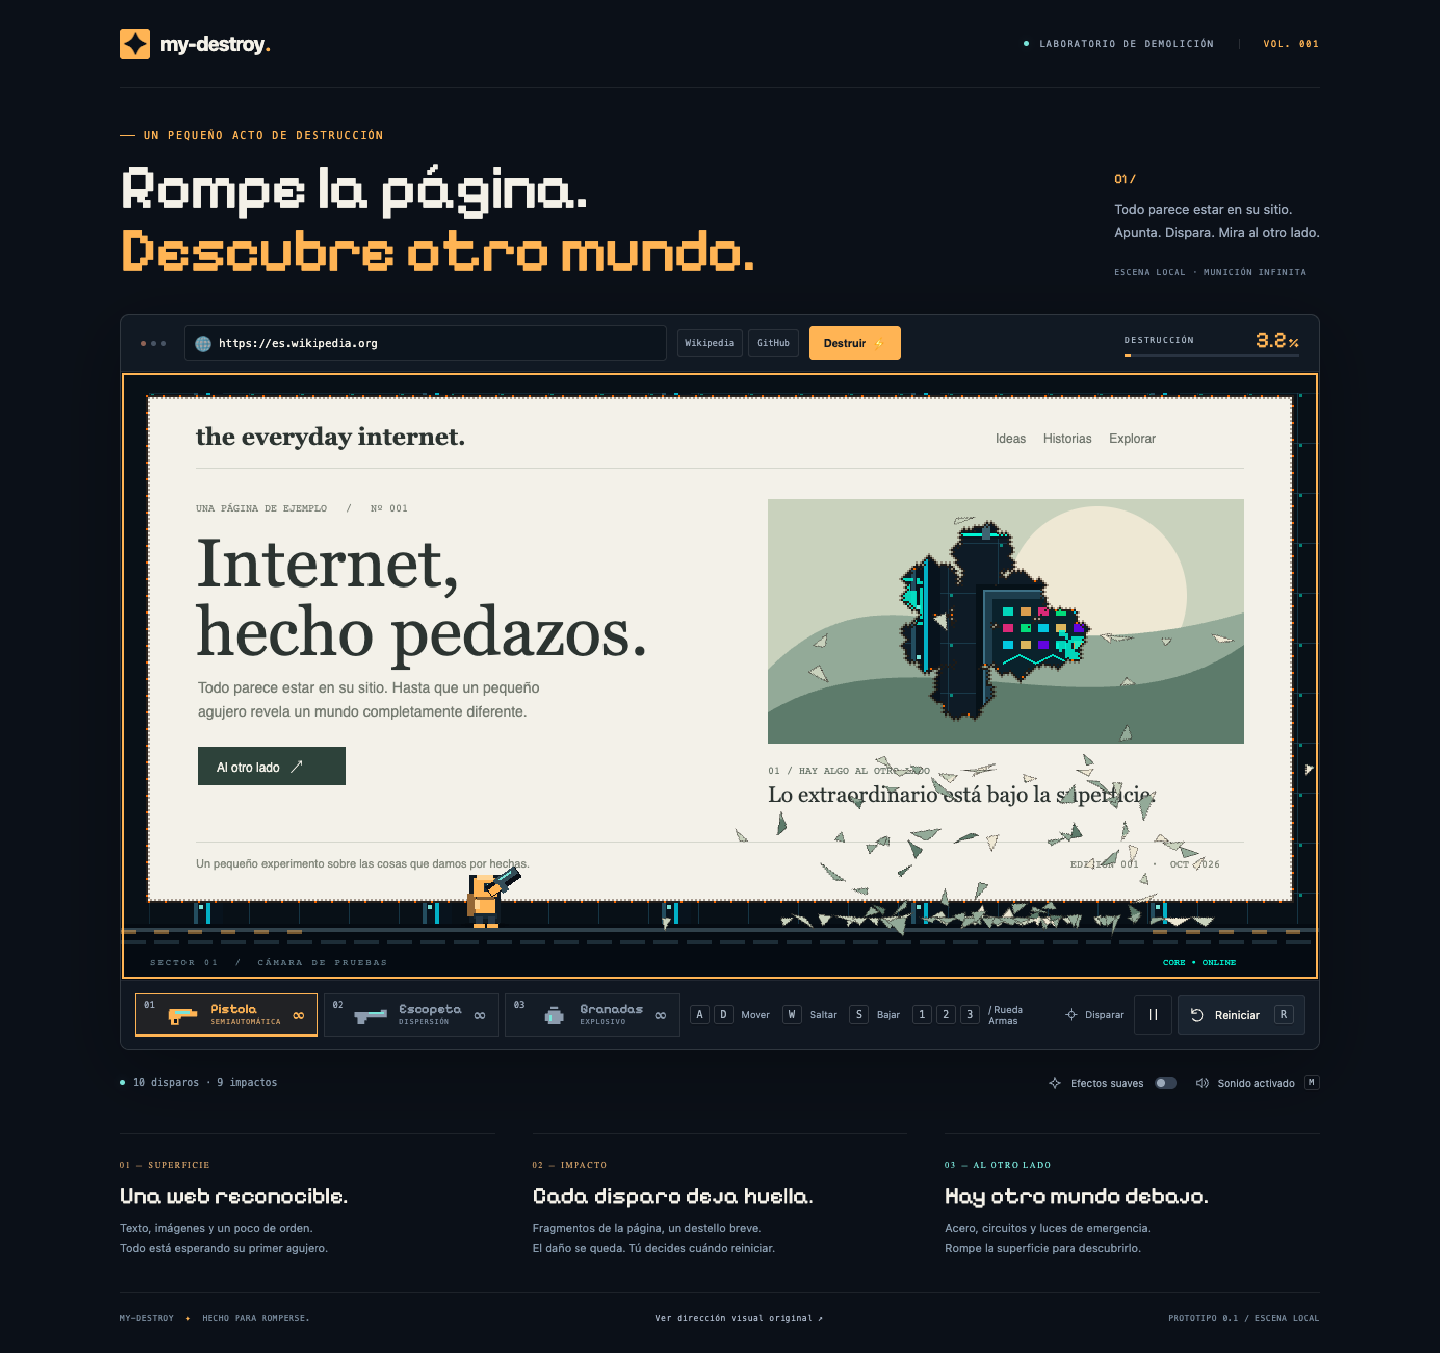
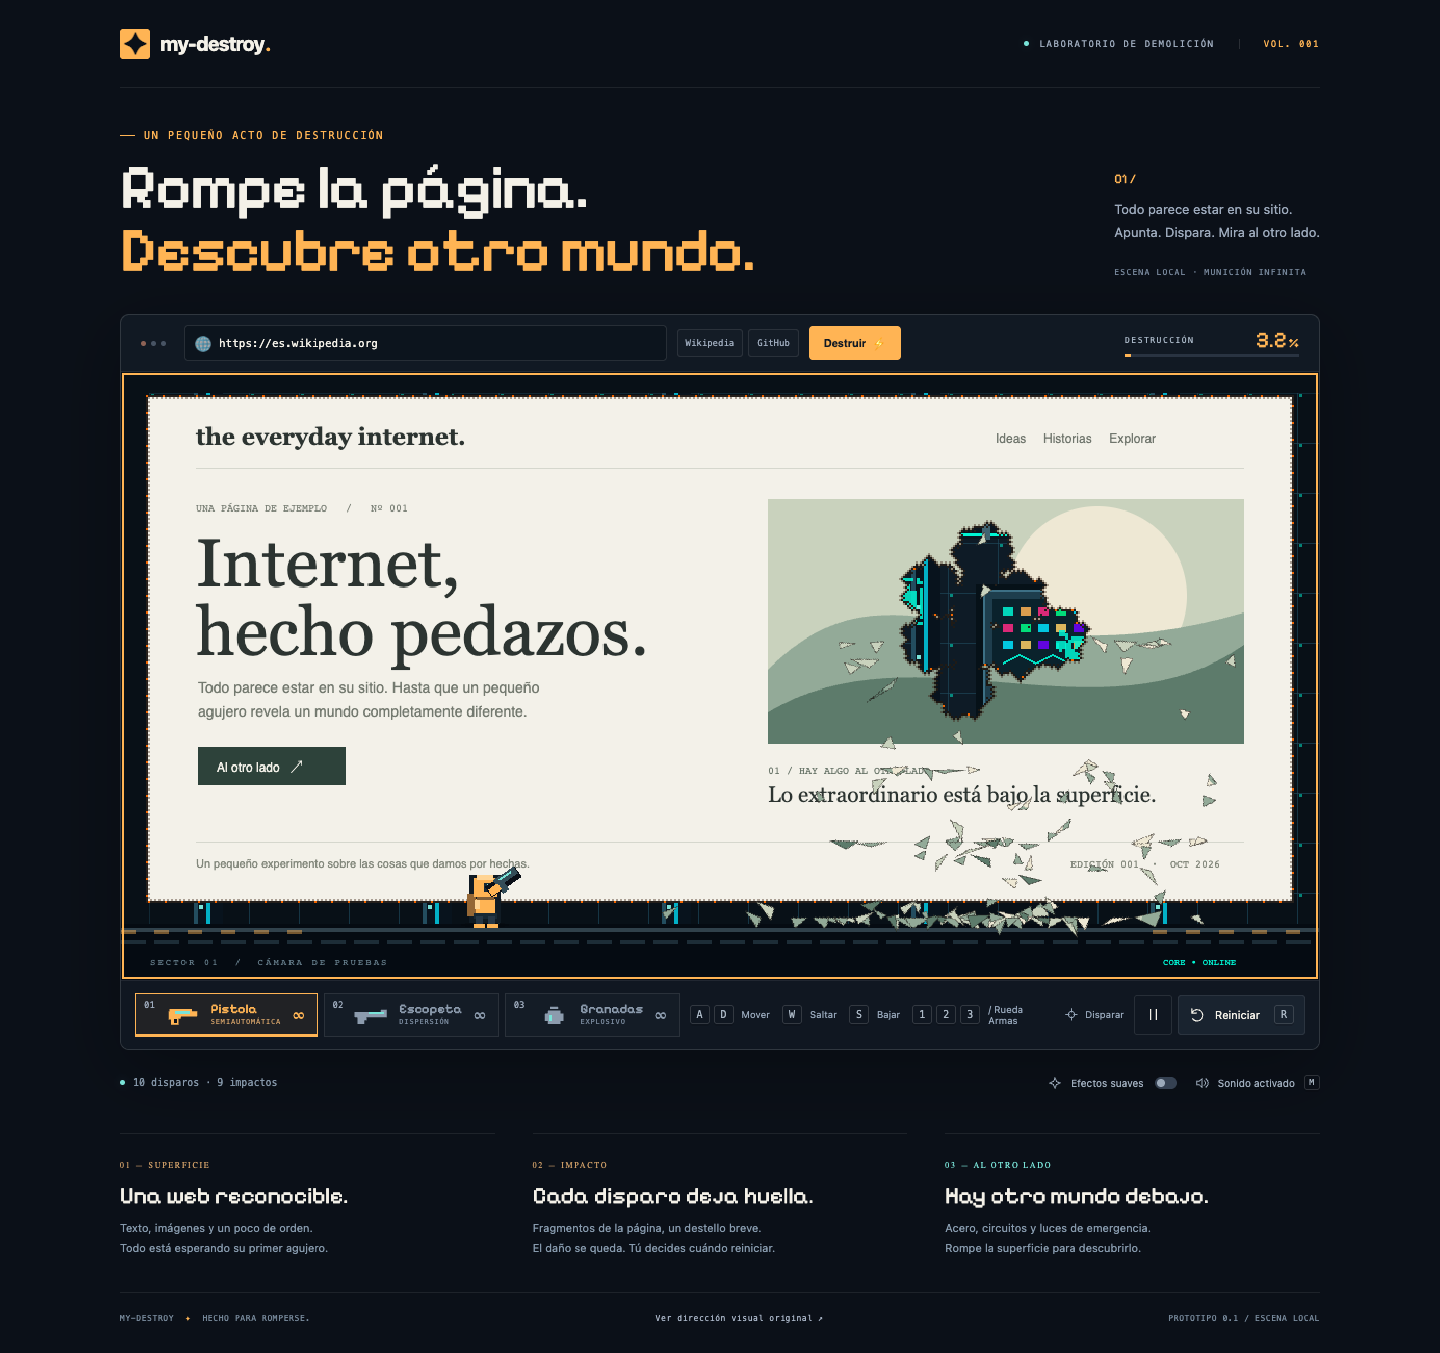
test(e2e): agregar captura de validacion y prueba visual para division de texto dom

diff --git a/tests/capture.spec.ts b/tests/capture.spec.ts
@@ -116,3 +116,44 @@ test('captures real scraped Wikipedia destruction with dynamic platforms and fal
   await page.screenshot({ path: 'docs/previews/scraped-wikipedia-destroyed.png', fullPage: true });
 });
 
+test('captures DOM text splitting with tumbling letter physics', async ({ page }) => {
+  await page.setViewportSize({ width: 1280, height: 720 });
+  await page.goto('/');
+  await expect(page.locator('canvas')).toHaveCount(1);
+  await expect(page.getByRole('button', { name: 'Reiniciar' })).toBeEnabled();
+  await page.locator('canvas').focus();
+
+  async function fire(x: number, y: number) {
+    const box = (await page.locator('canvas').boundingBox())!;
+    await page.mouse.click(box.x + (x / 1152) * box.width, box.y + (y / 584) * box.height);
+  }
+
+  // Shoot into the large headline "Internet, hecho pedazos."
+  for (const [x, y] of [[110, 195], [170, 195], [230, 195]]) {
+    await fire(x, y);
+    await page.waitForTimeout(220);
+  }
+
+  // Shoot into 'hecho pedazos.'
+  for (const [x, y] of [[120, 260], [180, 260], [250, 260]]) {
+    await fire(x, y);
+    await page.waitForTimeout(220);
+  }
+
+  // Shoot into paragraph text
+  for (const [x, y] of [[120, 300], [220, 315]]) {
+    await fire(x, y);
+    await page.waitForTimeout(220);
+  }
+
+  // Allow letters and debris to tumble and settle with Rapier2D physics
+  await page.waitForTimeout(1600);
+
+  const state = await page.evaluate(() => (window as any).__MY_DESTROY__.snapshot());
+  expect(state.textDetached).toBeGreaterThan(10);
+
+  await mkdir('docs/previews', { recursive: true });
+  await page.screenshot({ path: 'docs/previews/dom-text-splitting.png', fullPage: true });
+});
+
+
